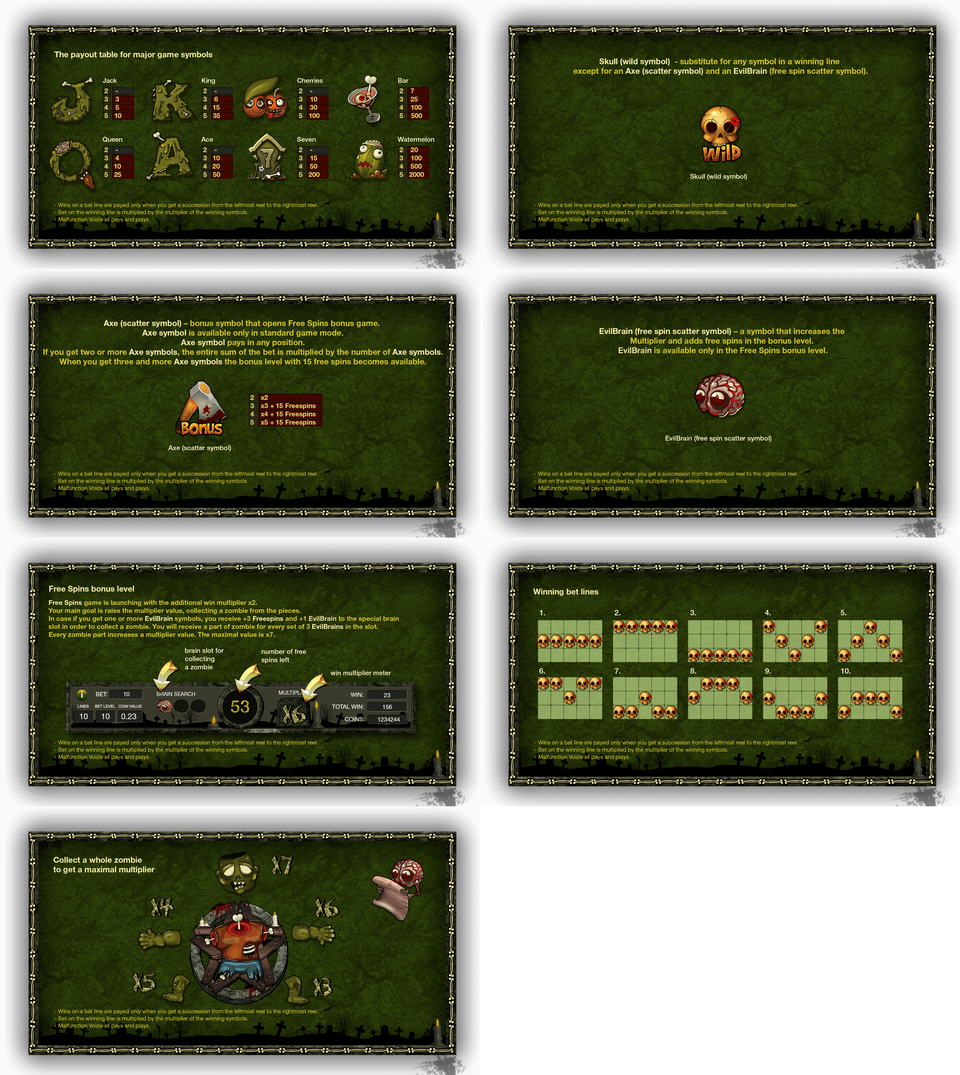
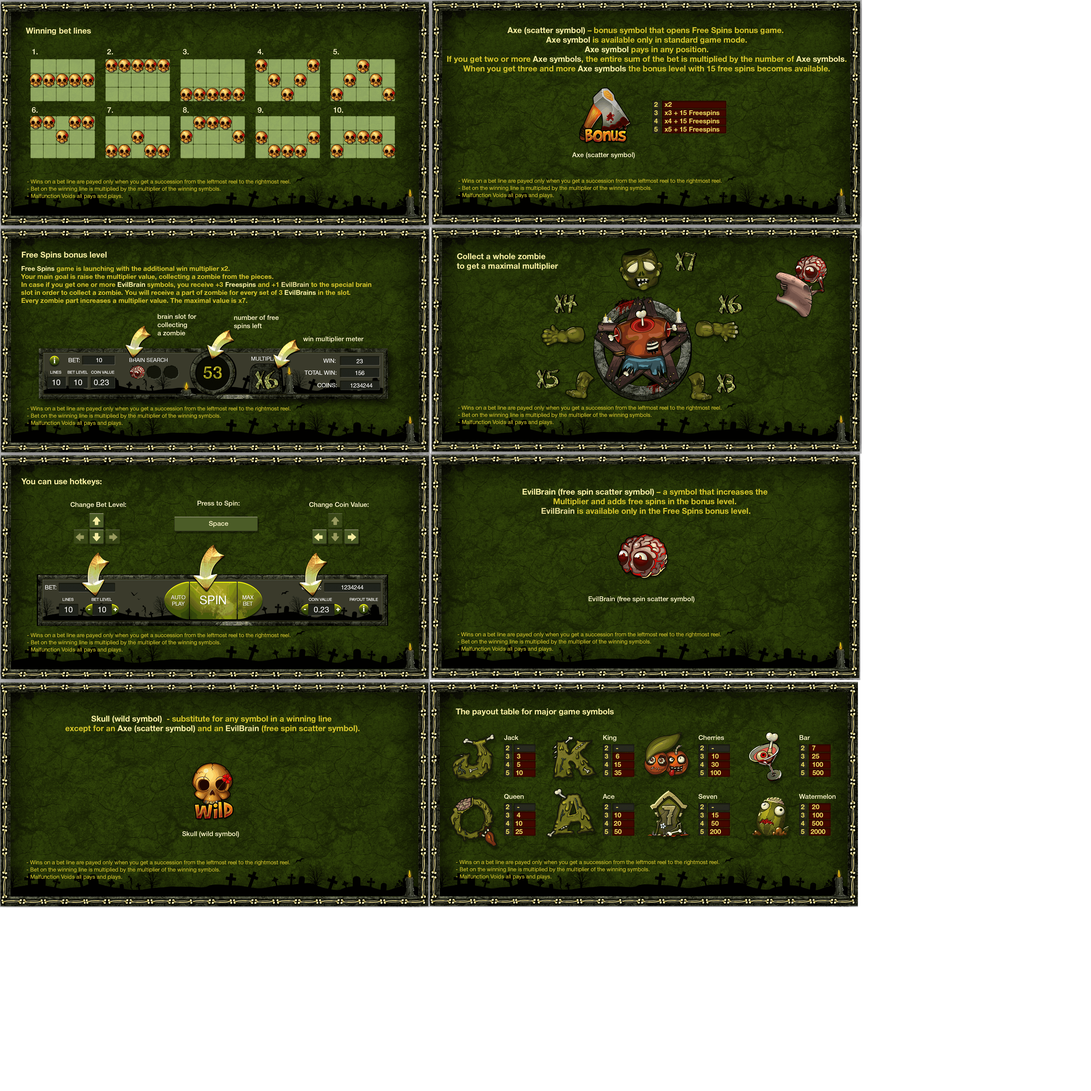
rules changed

diff --git a/markup/modules/Panel/PanelView.js b/markup/modules/Panel/PanelView.js
@@ -252,27 +252,27 @@ export let view = (() => {
             model.el('overlay', overlay);
 
             let infoRules = game.add.sprite(x, y, 'info', '1_en.png', container);
-                infoRules.anchor.set(0.5);
+            infoRules.anchor.set(0.5);
             model.el('infoRules', infoRules);
 
-            let closed = game.add.sprite(infoRules.width - 70, infoRules.height - (infoRules.height - 110), 'closed', null, container);
+            let closed = game.add.sprite(infoRules.width + 90, infoRules.height - (infoRules.height - 100), 'closed', null, container);
             model.el('closed', closed);
 
-            let arrowRight = game.add.sprite(infoRules.width / 2 + 80, infoRules.height - 100, 'ar', null, container);
+            let arrowRight = game.add.sprite(infoRules.width / 2 + 150, infoRules.height + 50, 'ar', null, container);
             model.el('arrowRight', arrowRight);
 
-            let arrowLeft = game.add.sprite(infoRules.width / 2 - 80, infoRules.height - 100, 'arLeft', null, container);
+            let arrowLeft = game.add.sprite(infoRules.width / 2 - 40, infoRules.height + 50, 'arLeft', null, container);
             model.el('arrowLeft', arrowLeft);
 
             let infoMarkers = [];
-            let infoMarker = game.add.sprite(infoRules.width / 2 - 40, infoRules.height - 130, 'infoMarker', 'marker_on.png', container);
+            let infoMarker = game.add.sprite(infoRules.width / 2, infoRules.height + 20, 'infoMarker', 'marker_on.png', container);
                 infoMarker.name = 'infoMarker0';
                 infoMarkers.push(infoMarker);
 
-            for (let i = 1; i < 7; i++) {
+            for (let i = 1; i < 8; i++) {
                 let name = 'infoMarker' + i;
                 let counter = i;
-                let marker = game.add.sprite(infoMarker.x, infoRules.height - 130, 'infoMarker', 'marker_off.png', container);
+                let marker = game.add.sprite(infoMarker.x, infoRules.height + 20, 'infoMarker', 'marker_off.png', container);
                 marker.name = name;
                 marker.x = marker.x + 30 * i;
                 infoMarkers.push(marker);

diff --git a/markup/modules/MobileSettings/View.js b/markup/modules/MobileSettings/View.js
@@ -316,22 +316,22 @@ export let view = (() => {
             infoRules.anchor.set(0.5);
             infoRules.scale.set(1.4);
             model.el('infoRules', infoRules);
-            const closed = game.add.sprite(infoRules.width - 80, infoRules.height - (infoRules.height - 70), 'closed', null, container);
+            const closed = game.add.sprite(infoRules.width + 40, infoRules.height - (infoRules.height - 60), 'closed', null, container);
             model.el('closed', closed);
-            const arrowRight = game.add.sprite(infoRules.width / 2 + 140, infoRules.height - 130, 'ar', null, container);
+            const arrowRight = game.add.sprite(infoRules.width / 2 + 200, infoRules.height + 20, 'ar', null, container);
             model.el('arrowRight', arrowRight);
-            const arrowLeft = game.add.sprite(infoRules.width / 2 - 140, infoRules.height - 130, 'arLeft', null, container);
+            const arrowLeft = game.add.sprite(infoRules.width / 2 - 50, infoRules.height + 20, 'arLeft', null, container);
             model.el('arrowLeft', arrowLeft);
 
             let infoMarkers = [];
-            let infoMarker = game.add.sprite(infoRules.width / 2 - 60, infoRules.height - 110, 'infoMarker', 'marker_on.png', container);
+            let infoMarker = game.add.sprite(infoRules.width / 2, infoRules.height - 10, 'infoMarker', 'marker_on.png', container);
             infoMarker.name = 'infoMarker0';
             infoMarkers.push(infoMarker);
 
-            for (let i = 1; i < 7; i++) {
+            for (let i = 1; i < 8; i++) {
                 let name = 'infoMarker' + i;
                 let counter = i;
-                let marker = game.add.sprite(infoMarker.x, infoRules.height - 110, 'infoMarker', 'marker_off.png', container);
+                let marker = game.add.sprite(infoMarker.x, infoRules.height - 10, 'infoMarker', 'marker_off.png', container);
                 marker.name = name;
                 marker.x = marker.x + 30 * i;
                 infoMarkers.push(marker);

diff --git a/markup/modules/Panel/PanelController.js b/markup/modules/Panel/PanelController.js
@@ -150,7 +150,7 @@ export let controller = (() => {
                 infoMarkers.forEach((elem) => {
                     elem.frameName = 'marker_off.png';
                 });
-                if (counter > 5) {
+                if (counter > 6) {
                     counter = 0;
                 } else {
                     counter++;
@@ -164,7 +164,7 @@ export let controller = (() => {
                     elem.frameName = 'marker_off.png';
                 });
                 if (counter < 1) {
-                    counter = 6;
+                    counter = 7;
                 } else {
                     counter--;
                     infoMarkers[counter + 1].frameName = 'marker_off.png';

diff --git a/markup/modules/MobileSettings/Controller.js b/markup/modules/MobileSettings/Controller.js
@@ -153,7 +153,7 @@ export let controller = (() => {
             infoMarkers.forEach((elem) => {
                 elem.frameName = 'marker_off.png';
             });
-            if (counter > 5) {
+            if (counter > 6) {
                 counter = 0;
             } else {
                 counter++;
@@ -172,7 +172,7 @@ export let controller = (() => {
                 elem.frameName = 'marker_off.png';
             });
             if (counter < 1) {
-                counter = 6;
+                counter = 7;
             } else {
                 counter--;
                 infoMarkers[counter + 1].frameName = 'marker_off.png';
